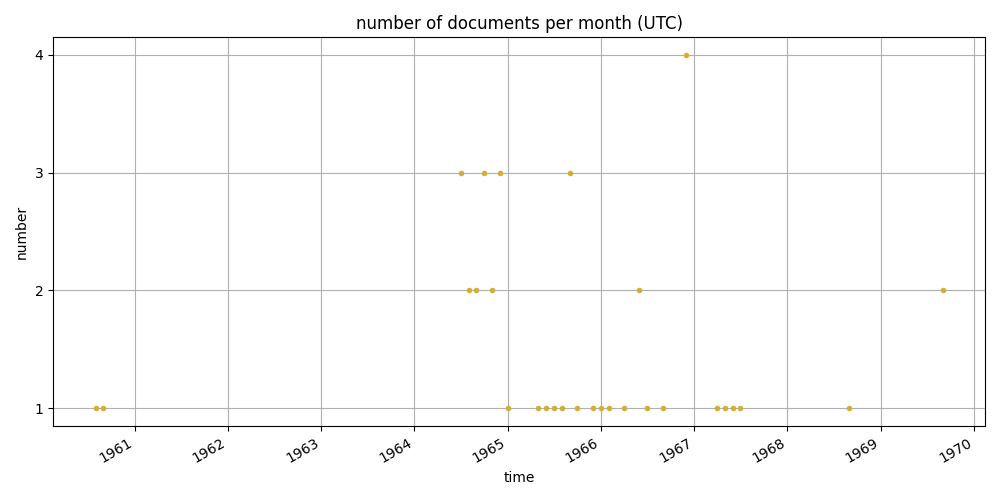
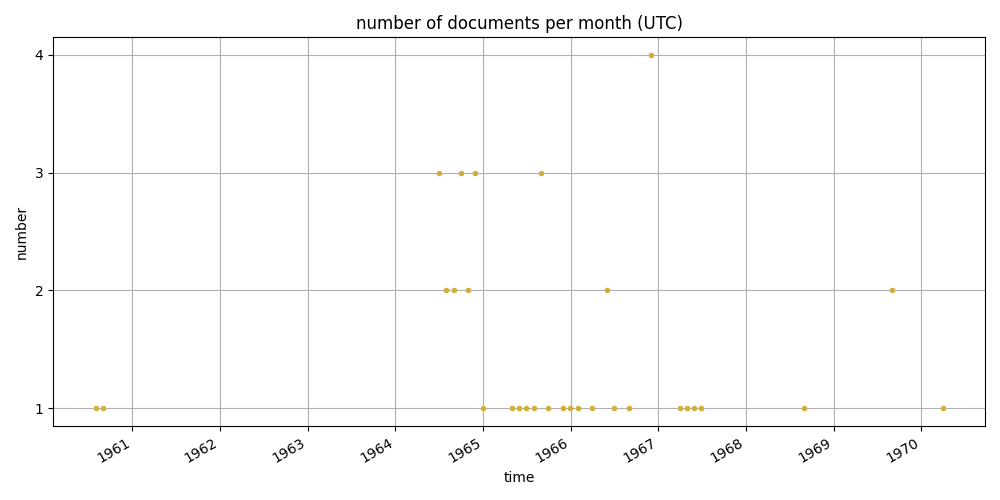
output csv written

diff --git a/metadata/md/metadata-analysis.md b/metadata/md/metadata-analysis.md
@@ -25,31 +25,31 @@ dtype: int64
 ### `df.info()`
 ```
 <class 'pandas.core.frame.DataFrame'>
-RangeIndex: 180 entries, 0 to 179
+RangeIndex: 184 entries, 0 to 183
 Data columns (total 19 columns):
  #   Column          Non-Null Count  Dtype 
 ---  ------          --------------  ----- 
- 0   img             180 non-null    int64 
- 1   lrx             180 non-null    int64 
- 2   lry             180 non-null    int64 
- 3   width           180 non-null    int64 
- 4   height          180 non-null    int64 
- 5   type            180 non-null    object
- 6   ed              180 non-null    object
- 7   doc             180 non-null    object
- 8   title           180 non-null    object
- 9   author          180 non-null    object
- 10  author-uri      180 non-null    object
- 11  notBefore-iso   180 non-null    object
- 12  notAfter-iso    180 non-null    object
- 13  place           180 non-null    object
- 14  place-uri       180 non-null    object
- 15  repository      180 non-null    object
- 16  repository-uri  180 non-null    object
- 17  collection      180 non-null    object
- 18  idno            180 non-null    object
+ 0   img             184 non-null    int64 
+ 1   lrx             184 non-null    int64 
+ 2   lry             184 non-null    int64 
+ 3   width           184 non-null    int64 
+ 4   height          184 non-null    int64 
+ 5   type            184 non-null    object
+ 6   ed              184 non-null    object
+ 7   doc             184 non-null    object
+ 8   title           184 non-null    object
+ 9   author          184 non-null    object
+ 10  author-uri      184 non-null    object
+ 11  notBefore-iso   184 non-null    object
+ 12  notAfter-iso    184 non-null    object
+ 13  place           184 non-null    object
+ 14  place-uri       184 non-null    object
+ 15  repository      184 non-null    object
+ 16  repository-uri  184 non-null    object
+ 17  collection      184 non-null    object
+ 18  idno            184 non-null    object
 dtypes: int64(5), object(14)
-memory usage: 26.8+ KB
+memory usage: 27.4+ KB
 
 ```
 ### cleaned document data
@@ -101,6 +101,7 @@ doc
 0043  Auden, W. H.              Autograph Letter Signed W. H. Auden to Hugo Kurka 1964-06-10   Kirchstetten
 0044  Auden, W. H.              Autograph Letter Signed W. H. Auden to Hugo Kurka 1965-08-30   Kirchstetten
 0045  Auden, W. H.              Autograph Letter Signed W. H. Auden to Hugo Kurka 1966-03-01  New York City
+0046  Auden, W. H.              Autograph Letter Signed W. H. Auden to Hugo Kurka 1970-03-27  New York City
 ```
 ### scatter plot
 
